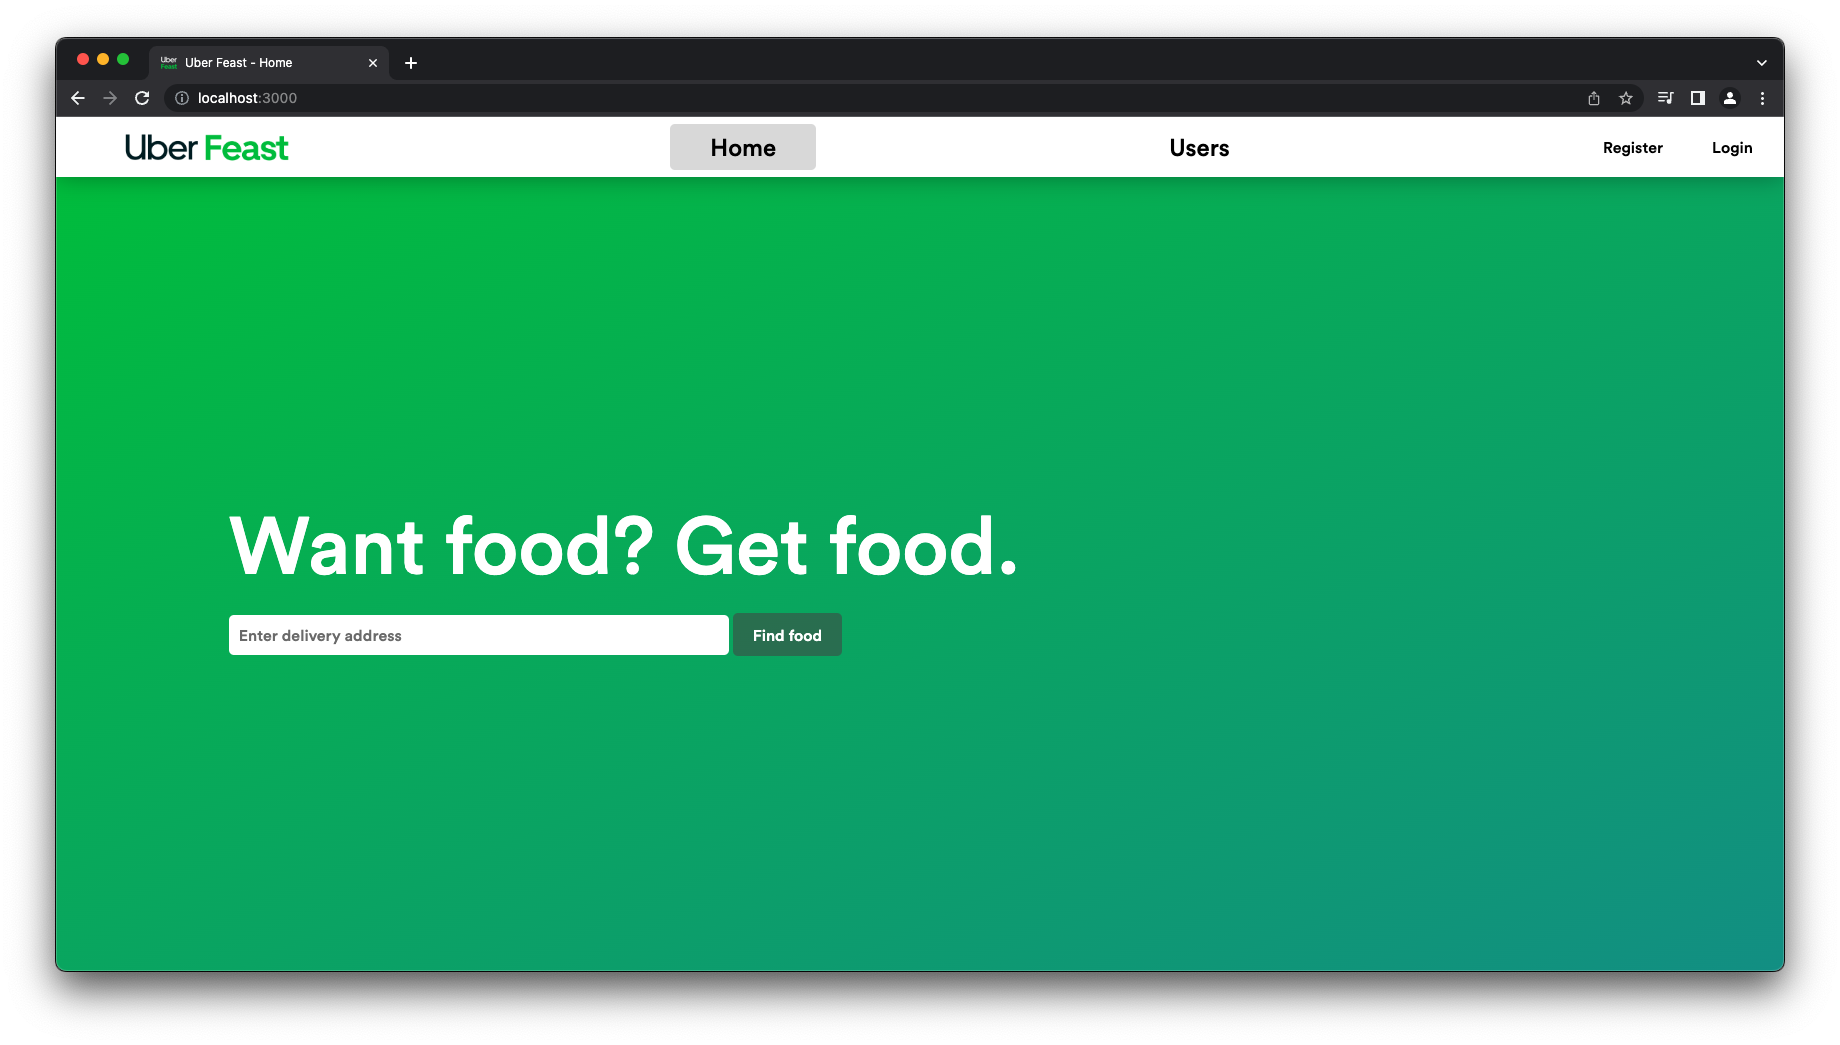
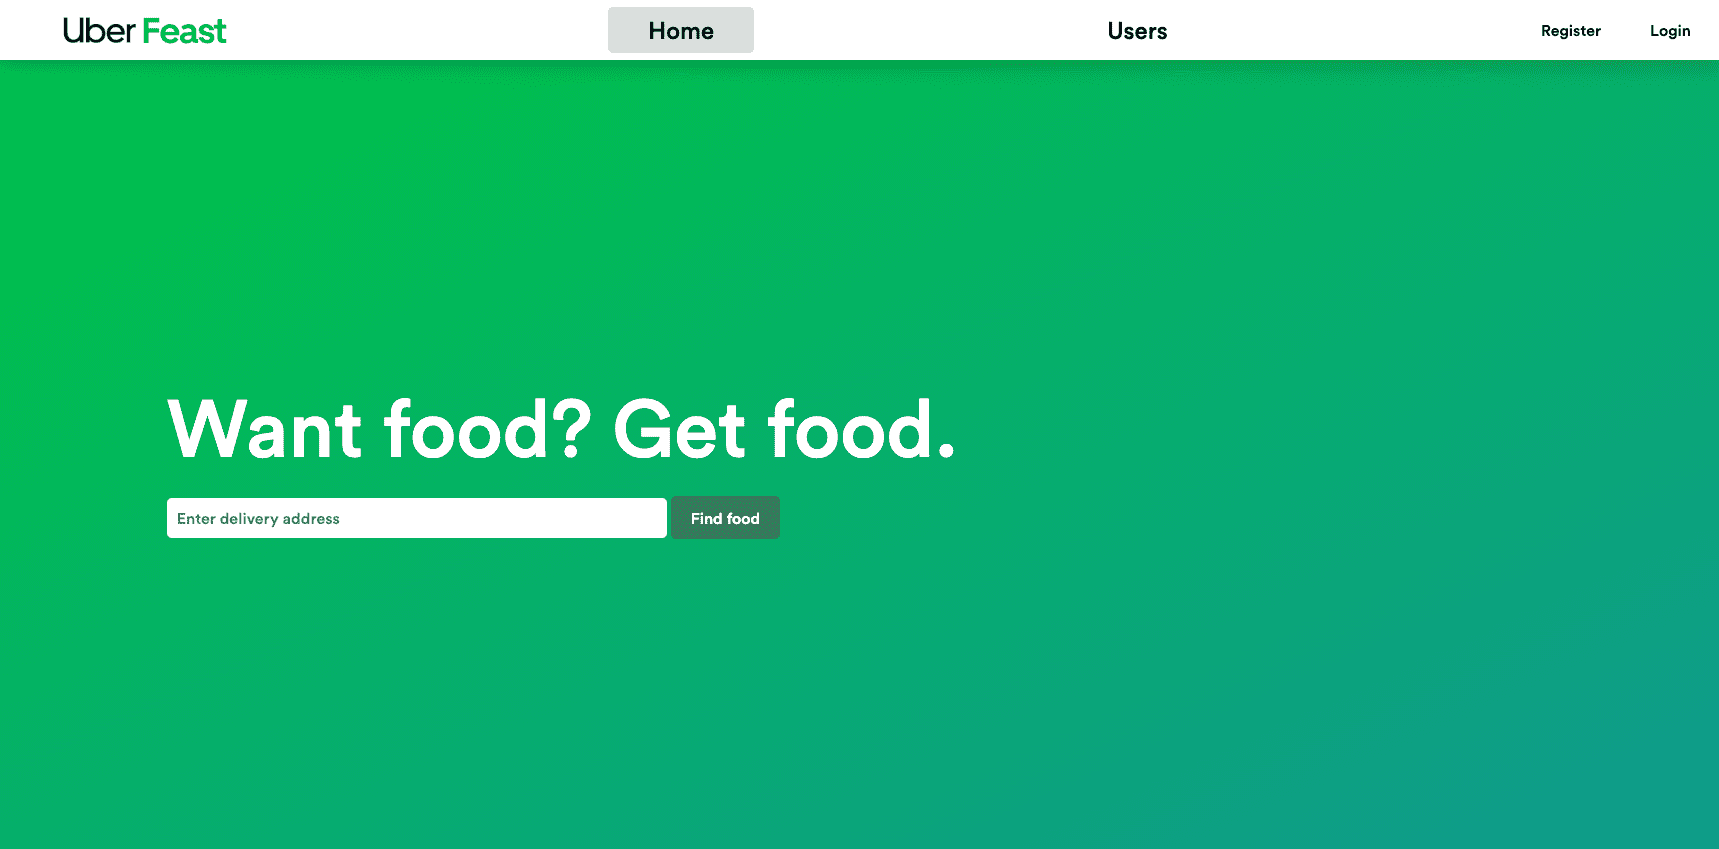
compress & crop images

Changed region(s): [[0.0, 0.0, 1.0, 1.0], [0.0925, 0.4594, 0.555, 0.5512], [0.0925, 0.5819, 0.4625, 0.6431]]

diff --git a/README.md b/README.md
@@ -9,8 +9,8 @@
 
 <br />
 
-**A georgeous UI featuring smooth animations** ![order](https://github.com/TahaInc/uber-feast/blob/main/images/screenshot_1.gif?raw=true)
+**A georgeous UI featuring smooth animations** ![order](./images/screenshot_1.gif)
 
-**A beautiful Uber Eats reskin** ![home](https://github.com/TahaInc/uber-feast/blob/main/images/screenshot_2.png?raw=true)
+**A beautiful Uber Eats reskin** ![home](./images/screenshot_2.png)
 
-**A login system to keep track of your order** ![login](https://github.com/TahaInc/uber-feast/blob/main/images/screenshot_3.png?raw=true)
+**A login system to keep track of your order** ![login](./images/screenshot_3.png)
